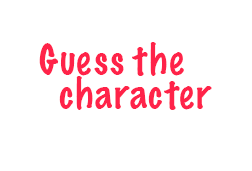
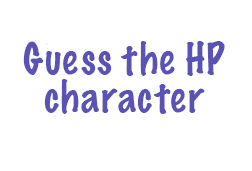
something is wrong when I try to deploy, this is a test push

Changed region(s): [[0.0833, 0.2339, 0.9167, 0.6725]]

diff --git a/code/hpscript.js b/code/hpscript.js
@@ -7,6 +7,7 @@ const playAgainButton = document.getElementById('playAgain');
 const winOrLose = document.querySelector('.win-or-lose-wrapper');
 const winOrLoseText = document.getElementById('winOrLoseText');
 
+// Was going to bring in the characters with an API but time ran out.
 // async function fetchData() {
 //   // Make a fetch and save it in a variable. Await means Javascript is going to stop here and get the item, instead of calling the rest of the code before. 
 //   let response = await fetch("https://hp-api.onrender.com/api/characters");
@@ -273,23 +274,38 @@ const filterCharacters = (keep) => {
   const { category, value } = currentQuestion;
 
   if (category === 'house' || category === 'hair' || category === 'type' || category === 'species') {
-    filterFunction = person => person[category] === value;
+    // Saves the filtered characters in the variable filtered
+    filtered = person => person[category] === value;
   } else if (category === 'teacher') {
-    filterFunction = person => person.isTeacher;
+    filtered = person => person.isTeacher;
   }
 
-  const positiveCharacters = charactersInPlay.filter(filterFunction);
-  const negativeCharacters = charactersInPlay.filter(person => !filterFunction(person));
+  // Here two new arrays are created, with the filtered characters in them
+  const positiveCharacters = charactersInPlay.filter(filtered);
+  const negativeCharacters = charactersInPlay.filter(person => !filtered(person));
 
   if (keep) {
-    alert(
-      `Yes, the character has ${category === 'teacher' ? 'a teacher' : ` ${value} ${category}`}! Keep all matching characters`
-    );
+    if (category === 'teacher') {
+      alert(
+        `Yes, the character is a ${value}. Keep all matching characters.`
+      );
+      // Teacher is the first, because all options after teacher can be written in the similar syntax.
+    } else {
+      alert(
+        `Yes, the character has ${value} ${category}! Keep all matching characters.`
+      );
+    }
     charactersInPlay = positiveCharacters;
   } else {
-    alert(
-      `No, the character doesn't have ${category === 'teacher' ? 'a teacher' : ` ${value} ${category}`}! Remove all matching characters`
-    );
+    if (category === 'teacher') {
+      alert(
+        `No, the character isn't a ${value}. Remove all matching characters`
+      );
+    } else {
+      alert(
+        `No, the character doesn't have ${value} ${category}! Remove all matching characters.`
+      );
+    }
     charactersInPlay = negativeCharacters;
   }
   // Regenerates the board with the filtered characters - those left after the question has been checked. 
@@ -317,11 +333,27 @@ const checkMyGuess = (personToCheck) => {
   board.style.display = "none"; // Without setting board to display: none, some of the characters where visible on scroll
 
   if (personToCheck === secret.name) {
-    winOrLoseText.textContent = `Yay - that was correct! Congrats – you won! 🙌`;
+    winOrLoseText.textContent = `Yay - ${personToCheck} was correct! Congrats – you won! 🙌`;
   } else {
-    winOrLoseText.textContent = `I'm sorry - that was incorrect!😥 Wanna go again?`;
+    winOrLoseText.textContent = `I'm sorry - ${personToCheck} was incorrect! 😥 Wanna go again?`;
   }
 };
+
+// Count is set to zero here, if this value is inside the function it doesn't increment.
+let count = 1;
+// Counter function, increments via using the same eventListener as for the checkQuestion.
+const counter = () => {
+  let counterSection = document.querySelector('.counter');
+  let finalCount = count++
+
+  counterSection.innerHTML =
+    `<p>Guesses made: 
+    <span style="font-weight: bolder; color: #5a52b4;">${finalCount}</span>
+    </p>`
+}
+
+//timer
+
 
 // Function to restart the game after the guess has been checked. We first need to set the winOrLose section to display: none again, otherwise we can't see that the board has been reset. Then the start-function gets invoked. We don't have to generate the board again here, since that happens in the start function, same with the secret. 
 const restartGame = () => {
@@ -337,4 +369,4 @@ start();
 restartButton.addEventListener('click', start);
 playAgainButton.addEventListener('click', restartGame);
 questions.addEventListener('change', selectQuestion);
-findOutButton.addEventListener('click', checkQuestion);
+findOutButton.addEventListener('click', counter, checkQuestion);

diff --git a/code/hpindex.html b/code/hpindex.html
@@ -14,44 +14,47 @@
 <body>
   <aside class="question-section">
 
-
     <img class="guess-who-icon" src="images/guess-who-bubble.png" alt="Guess Who" />
 
-    <h1>Does the person have</h1>
+    <h1>Is the character</h1>
 
     <select title="questions" id="questions">
       <optgroup label="house">
-        <option value="gryffindor">Gryffindor</option>
-        <option value="slytherin">Slytherin</option>
-        <option value="hufflepuff">Hufflepuff</option>
-        <option value="ravenclaw">Ravenclaw</option>
+        <option value="gryffindor">In Gryffindor</option>
+        <option value="slytherin">In Slytherin</option>
+        <option value="hufflepuff">In Hufflepuff</option>
+        <option value="ravenclaw">In Ravenclaw</option>
       </optgroup>
       <optgroup label="hair">
-        <option value="black">Black hair</option>
-        <option value="brown">Brown hair</option>
-        <option value="red">Red hair</option>
-        <option value="white">White hair</option>
-        <option value="grey">Grey hair</option>
-        <option value="bald">Is bald!</option>
+        <option value="black">Black haired</option>
+        <option value="brown">Brown haired</option>
+        <option value="red">Red haired</option>
+        <option value="white">White haired</option>
+        <option value="grey">Grey haired</option>
+        <option value="bald">Is bald</option>
       </optgroup>
       <optgroup label="species">
-        <option value="human">Human</option>
-        <option value="cat">Cat</option>
-        <option value="werewolf">Werewolf</option>
-        <option value="half-giant">Half-giant</option>
+        <option value="human">A human</option>
+        <option value="cat">A cat</option>
+        <option value="werewolf">A werewolf</option>
+        <option value="half-giant">A half-giant</option>
       </optgroup>
       <optgroup label="type">
-        <option value="witch">Witch</option>
-        <option value="wizard">Wizard</option>
+        <option value="witch">A witch</option>
+        <option value="wizard">A wizard</option>
       </optgroup>
       <optgroup label="teacher">
-        <option value="teacher">Is a teacher</option>
+        <option value="teacher">A teacher</option>
       </optgroup>
     </select>
     <div class="button-div">
+      <!-- Added an onclick here for the counter -->
       <button id="filter" class="filled-button">Find out</button>
       <button type="button" id="restart" class="outlined-button">Restart</button>
     </div>
+    <!-- Added section for counter -->
+    <section class="counter">
+    </section>
   </aside>
 
   <section class="board-wrapper">

diff --git a/code/hpstyle.css b/code/hpstyle.css
@@ -1,7 +1,7 @@
 /* Global css variables used for colors */
 :root {
-  --primary: #FFE09C;
-  --secondary: #FF2349;
+  --primary: #5a52b4;
+  --secondary: #11141a;
 }
 
 body {
@@ -51,6 +51,8 @@ select {
   display: flex;
   align-items: center;
   justify-content: center;
+  background-color: #242632;
+  /* Changed background color here aswell*/
 }
 
 .game-board {
@@ -59,6 +61,12 @@ select {
   display: flex;
   flex-wrap: wrap;
   align-content: center;
+}
+
+/* This and the section below is styling for the counter position */
+.counter {
+  margin: 20px 0;
+  color: white;
 }
 
 /****** CARD ******/
@@ -74,7 +82,6 @@ select {
   flex-direction: column;
   align-items: center;
   justify-content: space-between;
-  box-shadow: 5px 6px 10px -1px rgba(0, 0, 0, 0.08);
 }
 
 .card p {
@@ -85,6 +92,7 @@ select {
   /* Extra styling after changing colors */
   color: var(--secondary);
   padding: 10px;
+  color: white;
   ;
 }
 

diff --git a/README.md b/README.md
@@ -8,7 +8,9 @@ Start by briefly describing the assignment in a sentence or two. Keep it short a
 
 I didn't really know how to solve the checkQuestion together with the filterQuestions function. I at first compared filterQuestion true or false inside nested if/else statements, which worked fine - but made the code longer than neccessary. We where discussing the code in our team, which is where the thought of using the keep variable arised. By declaring keep within checkQuestion, that variable could instead be used to make the comparison. If the secret and value match that value is going to be assigned to "keep", so when the choice is "true" that alert will run from filterCharacters. I saved the function I made first inside the code aswell. 
 
-Wanted to add the characters via an api, when I decided to try doing the stretch goals. I felt it would take more time to create my own new characters, than using an api and learning how to do that. I watched a video on FrontEnd Masters about it (Javascript First Steps with Anjana Vakil)
+Wanted to add the characters via an api, when I decided to try doing the stretch goals. I felt it would take more time to create my own new characters, than using an api and learning how to do that. I watched a video on FrontEnd Masters about it (Javascript First Steps with Anjana Vakil). But the I still ended up putting the characters straight into the characters object to save time.
+
+When changing the characters to others, and also their attributes, led to many problems! For once, this time I didn't have to use the (includes) because of arrays, but instead had to solve how to show an attribute that is a boolean. Lot's of Googling, but also a lot of help from ChatGPT finally made is clearer for me. 
 
 ## View it live
 

diff --git a/instructions.md b/instructions.md
@@ -93,11 +93,11 @@ So you’ve completed the requirements? Great job! Make sure you've committed an
 
 ### Intermediate stretch goals
 - ~~Check the bonus step~~
-- Change the array of objects:
-  - Add more information about the people, and with this add the possibility to ask questions and filter the board in regards to these addons.
-  - Change the characters' info to be about your family, football club, colleagues, or cute dogs.
-- Create a counter to keep track of how many guesses a player does.
-- Change the styling to be as you want it!
+- ~~Change the array of objects:~~
+  ~~- Add more information about the people, and with this add the possibility to ask questions and filter the board in regards to these addons.~~
+  ~~- Change the characters' info to be about your family, football club, colleagues, or cute dogs.~~
+- ~~Create a counter to keep track of how many guesses a player does.~~
+- ~~Change the styling to be as you want it!~~
 
 ### Advanced stretch goals
 - Create a timer that measures how long time each game takes.
